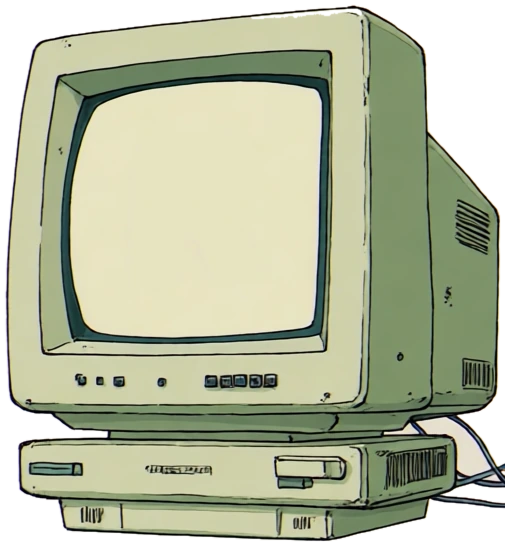
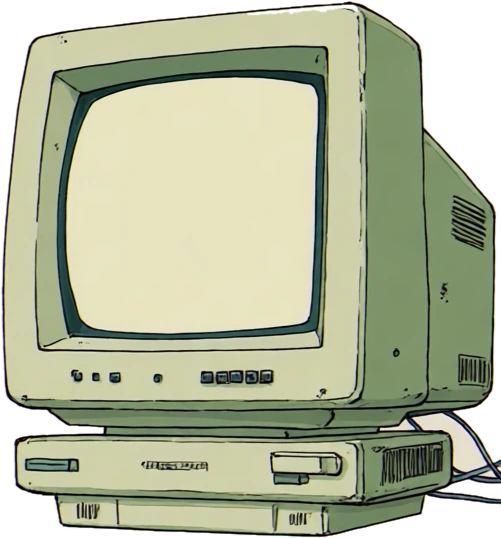
Letter TV: full-height TVs touching edge to edge on black (#72)
All six TVs now take the full screen height and sit flush side by side
(assets trimmed to their edges). The middle pair is centred as a whole
and only shrinks below full height when the screen is too narrow to show
both whole. NEXT sits on the seam between them, below the screens.
Background is black for now.

Claude-Session: https://claude.ai/code/session_013eeETGcTRTxRz5BoWtHoUC

diff --git a/frontend/src/components/letterTv/screens.js b/frontend/src/components/letterTv/screens.js
@@ -8,46 +8,39 @@ import teal from './assets/tvs/tv-teal.webp';
 // The six TV cut-outs. `screen` is where the cream screen sits inside each image, in percent
 // of that image. Measured from the art; tune these numbers if a letter ever looks off-centre.
 export const TVS = {
-  purple: {src: purple, width: 578, height: 617, screen: {left: 32.35, top: 32.9, width: 45.33, height: 41.98}},
-  beige: {src: beige, width: 505, height: 546, screen: {left: 14.06, top: 15.02, width: 49.31, height: 46.52}},
-  blue: {src: blue, width: 510, height: 541, screen: {left: 26.67, top: 36.41, width: 49.02, height: 43.44}},
-  yellow: {src: yellow, width: 565, height: 577, screen: {left: 20.0, top: 16.46, width: 47.61, height: 40.21}},
-  orange: {src: orange, width: 557, height: 580, screen: {left: 35.37, top: 28.45, width: 49.91, height: 44.14}},
-  teal: {src: teal, width: 524, height: 517, screen: {left: 13.55, top: 14.89, width: 51.53, height: 47.58}},
+  purple: {src: purple, width: 573, height: 607, screen: {left: 32.63, top: 32.62, width: 45.73, height: 42.67}},
+  beige: {src: beige, width: 501, height: 538, screen: {left: 13.37, top: 14.5, width: 49.7, height: 47.21}},
+  blue: {src: blue, width: 502, height: 533, screen: {left: 26.3, top: 36.21, width: 49.8, height: 44.09}},
+  yellow: {src: yellow, width: 561, height: 569, screen: {left: 19.43, top: 15.99, width: 47.95, height: 40.78}},
+  orange: {src: orange, width: 552, height: 572, screen: {left: 35.69, top: 28.15, width: 50.36, height: 44.76}},
+  teal: {src: teal, width: 520, height: 509, screen: {left: 12.89, top: 14.34, width: 51.93, height: 48.33}},
 };
 // Must match TV_IDS in backend/letter_tv.py.
 export const TV_IDS = ['purple', 'beige', 'blue', 'yellow', 'orange', 'teal'];
 
 // Reference composition: 1080 units tall, x measured from the centre line of the screen.
-// One unit = available height / 1080, unless the screen is too narrow to show both central
-// TVs whole (old tablets), then it shrinks just enough. Outer TVs simply run off the edges.
+// Every TV is the full height and they touch edge to edge. One unit = available height / 1080,
+// unless the screen is too narrow for the two central TVs, then it shrinks just enough to show
+// them whole. Outer TVs simply run off the edges.
 export const REF_HEIGHT = 1080;
-export const MIN_VISIBLE_WIDTH = 1440;
-
-const GAP = 36;            // between the two central TVs
-const OUTER_GAP = 30;      // between neighbouring TVs further out
-const SLOTS = {
-  centre: {height: 640, top: 110},
-  near: {height: 540, top: 300},
-  far: {height: 600, top: 80},
-};
 
 // Arrangement order: [far-left, near-left, centre-left, centre-right, near-right, far-right].
 // Returns every TV's box in reference units (x = left edge relative to the centre line).
 export function layoutSlots(arrangement) {
-  const box = (id, slot) => {
-    const tv = TVS[id], {height, top} = SLOTS[slot];
-    return {id, role: slot, top, height, width: Math.round(height * tv.width / tv.height)};
-  };
-  const [fl, nl, cl, cr, nr, fr] = arrangement;
-  const cL = box(cl, 'centre'), cR = box(cr, 'centre');
-  cL.x = -GAP / 2 - cL.width; cR.x = GAP / 2;
-  const nL = box(nl, 'near'), nR = box(nr, 'near');
-  nL.x = cL.x - OUTER_GAP - nL.width; nR.x = cR.x + cR.width + OUTER_GAP;
-  const fL = box(fl, 'far'), fR = box(fr, 'far');
-  fL.x = nL.x - OUTER_GAP - fL.width; fR.x = nR.x + nR.width + OUTER_GAP;
-  return [fL, nL, cL, cR, nR, fR];
+  const boxes = arrangement.map((id, i) => {
+    const tv = TVS[id];
+    return {id, role: i === 2 || i === 3 ? 'centre' : 'outer', top: 0, height: REF_HEIGHT, width: Math.round(REF_HEIGHT * tv.width / tv.height)};
+  });
+  boxes[2].x = -Math.round((boxes[2].width + boxes[3].width) / 2); boxes[3].x = boxes[2].x + boxes[2].width;
+  for (let i = 1; i >= 0; i--) boxes[i].x = boxes[i + 1].x - boxes[i].width;
+  for (let i = 4; i < 6; i++) boxes[i].x = boxes[i - 1].x + boxes[i - 1].width;
+  return boxes;
 }
+
+// Half-width (units) that must stay visible so both central TVs are whole.
+export const centreHalfWidth = slots => Math.max(-slots[2].x, slots[3].x + slots[3].width);
+// Where the two central TVs meet (units from the centre line); NEXT sits on this seam.
+export const centreSeam = slots => slots[3].x;
 
 // Both letters share one size, set by the shorter central screen (reference units).
 export function letterSize(slots, scale = LETTER_SCALE) {
@@ -58,5 +51,5 @@ export function letterSize(slots, scale = LETTER_SCALE) {
 // Letter height as a share of its screen's height.
 export const LETTER_SCALE = 0.7;
 
-// NEXT button, centred between the central TVs below their screens (reference units).
-export const BUTTON = {top: 820, width: 280, height: 100};
+// NEXT button, on the seam between the central TVs, below every screen (reference units).
+export const BUTTON = {bottom: 24, width: 280, height: 100};

diff --git a/frontend/src/components/letterTv/letterTv.css b/frontend/src/components/letterTv/letterTv.css
@@ -1,12 +1,12 @@
 @import url('https://fonts.googleapis.com/css2?family=Archivo+Black&family=DM+Sans:wght@500;700;800&display=swap');
 
-/* Full-screen, landscape. Six TVs on a 1080-unit-tall strip. One unit (--u) follows the
-   available height; it only shrinks further if the two central TVs would not fit the width.
-   The strip is centred, so the middle pair always stays whole and the outer TVs crop at the edges. */
-.ltv-app{position:fixed;inset:0;overflow:hidden;background:#e6e0ce;color:#141014;font-family:'DM Sans',system-ui,sans-serif;
+/* Full-screen, landscape. Six full-height TVs touching edge to edge on a 1080-unit strip. One unit
+   (--u) follows the available height; it only shrinks if the two central TVs would not fit the width
+   (--centre-w, set per arrangement). The strip is centred: the middle pair stays whole, the outer TVs crop. */
+.ltv-app{position:fixed;inset:0;overflow:hidden;background:#000;color:#141014;font-family:'DM Sans',system-ui,sans-serif;
   --safe-h:calc(100vh - env(safe-area-inset-top) - env(safe-area-inset-bottom));
   --safe-w:calc(100vw - env(safe-area-inset-left) - env(safe-area-inset-right));
-  --u:min(calc(var(--safe-h) / 1080), calc(var(--safe-w) / 1440));
+  --u:min(calc(var(--safe-h) / 1080), calc(var(--safe-w) / var(--centre-w, 2200)));
   user-select:none;-webkit-user-select:none;-webkit-tap-highlight-color:transparent;overscroll-behavior:none;touch-action:manipulation}
 @supports (height:100dvh){.ltv-app{--safe-h:calc(100dvh - env(safe-area-inset-top) - env(safe-area-inset-bottom))}}
 .ltv-app *{box-sizing:border-box}
@@ -22,12 +22,12 @@
 .ltv-sr{position:absolute;width:1px;height:1px;overflow:hidden;clip:rect(0 0 0 0)}
 
 /* One button: coral, thick black outline, cartoon shadow. Centred below the middle pair. */
-.ltv-next{position:absolute;left:50%;top:calc(var(--u) * var(--y));transform:translateX(-50%);width:calc(var(--u) * var(--w));min-width:120px;height:calc(var(--u) * var(--h));min-height:52px;padding:0;
+.ltv-next{position:absolute;left:calc(50% + var(--u) * var(--x, 0));bottom:calc(var(--u) * var(--b));transform:translateX(-50%);width:calc(var(--u) * var(--w));min-width:120px;height:calc(var(--u) * var(--h));min-height:52px;padding:0;
   border:max(3px,calc(var(--u) * 6)) solid #111;border-radius:max(14px,calc(var(--u) * 26));background:#F4A582;color:#111;font:400 max(22px,calc(var(--u) * 54))/1 'Archivo Black','Arial Black',sans-serif;letter-spacing:.06em;
   box-shadow:0 max(5px,calc(var(--u) * 11)) 0 #111;cursor:pointer;touch-action:manipulation}
 .ltv-next:active:not(:disabled){transform:translateX(-50%) translateY(max(4px,calc(var(--u) * 9)));box-shadow:0 max(1px,calc(var(--u) * 2)) 0 #111}
 .ltv-next:disabled{filter:saturate(.7)}
-.ltv-next:focus-visible{outline:3px solid #111;outline-offset:4px}
+.ltv-next:focus-visible{outline:3px solid #fff;outline-offset:4px}
 
 /* Small corner controls stay out of the art. */
 .ltv-corner{position:absolute;top:calc(env(safe-area-inset-top) + 10px);z-index:3;display:inline-flex;align-items:center;justify-content:center;gap:6px;min-height:44px;min-width:44px;

diff --git a/frontend/src/components/letterTv/arrangement.test.js b/frontend/src/components/letterTv/arrangement.test.js
@@ -1,5 +1,5 @@
 import {localArrangement, seededArrangement, shuffleArrangement, validArrangement} from './arrangement';
-import {TV_IDS, TVS, layoutSlots, letterSize, BUTTON} from './screens';
+import {BUTTON, REF_HEIGHT, TV_IDS, TVS, centreHalfWidth, layoutSlots, letterSize} from './screens';
 
 test('a shuffle uses each of the six TVs exactly once', () => {
   for (let i = 0; i < 200; i++) expect(validArrangement(shuffleArrangement())).toBe(true);
@@ -27,22 +27,23 @@ test('local arrangement survives a refresh of the same tab', () => {
   expect(localArrangement()).not.toEqual(first);
 });
 
-test('central pair hugs the centre line and never overlaps the button or each other', () => {
+test('all six TVs are full height and touch edge to edge, the middle pair on the centre line', () => {
   for (let i = 0; i < 200; i++) {
     const slots = layoutSlots(shuffleArrangement());
-    const [fl, nl, cl, cr, nr, fr] = slots;
-    expect(cl.role).toBe('centre'); expect(cr.role).toBe('centre');
-    expect(cl.x + cl.width).toBeLessThan(0); expect(cr.x).toBeGreaterThan(0);
-    // Both central TVs fit the narrowest width we guarantee (1440 units).
-    expect(Math.max(-cl.x, cr.x + cr.width)).toBeLessThanOrEqual(720);
-    expect(cl.top + cl.height).toBeLessThan(BUTTON.top);
-    expect(BUTTON.top + BUTTON.height).toBeLessThanOrEqual(1080);
-    // Outer TVs run outward without overlapping.
-    expect(nl.x + nl.width).toBeLessThan(cl.x); expect(fl.x + fl.width).toBeLessThan(nl.x);
-    expect(nr.x).toBeGreaterThan(cr.x + cr.width); expect(fr.x).toBeGreaterThan(nr.x + nr.width);
+    expect(slots.map(s => s.role)).toEqual(['outer', 'outer', 'centre', 'centre', 'outer', 'outer']);
+    slots.forEach(s => { expect(s.top).toBe(0); expect(s.height).toBe(REF_HEIGHT); });
+    // The pair is centred as a whole.
+    expect(Math.abs(slots[2].x + (slots[3].x + slots[3].width))).toBeLessThanOrEqual(1);
+    for (let k = 1; k < 6; k++) expect(slots[k].x).toBe(slots[k - 1].x + slots[k - 1].width);
+    expect(Math.abs(centreHalfWidth(slots) - (slots[2].width + slots[3].width) / 2)).toBeLessThanOrEqual(1);
     // Proportions are the art's own.
     slots.forEach(s => expect(Math.abs(s.width / s.height - TVS[s.id].width / TVS[s.id].height)).toBeLessThan(0.01));
-    expect(letterSize(slots)).toBeGreaterThan(150);
+    // NEXT sits below every central screen.
+    slots.slice(2, 4).forEach(s => {
+      const screenBottom = (TVS[s.id].screen.top + TVS[s.id].screen.height) / 100 * REF_HEIGHT;
+      expect(REF_HEIGHT - BUTTON.bottom - BUTTON.height).toBeGreaterThan(screenBottom);
+    });
+    expect(letterSize(slots)).toBeGreaterThan(250);
   }
   expect(TV_IDS).toHaveLength(6);
 });

diff --git a/frontend/src/components/letterTv/LetterTV.jsx b/frontend/src/components/letterTv/LetterTV.jsx
@@ -5,13 +5,13 @@ import {BACKEND_URL} from '@/lib/api';
 import RoomQR from '../plotTwist/RoomQR';
 import RoomCodeInput from '../plotTwist/RoomCodeInput';
 import {validRoomCode} from '../plotTwist/roomCode';
-import {BUTTON, TVS, layoutSlots, letterSize} from './screens';
+import {BUTTON, TVS, centreHalfWidth, centreSeam, layoutSlots, letterSize} from './screens';
 import {localArrangement, rememberArrangement, seededArrangement, validArrangement} from './arrangement';
 import {nextPair} from './letters';
 import {playClick} from './click';
 import './letterTv.css';
 
-// Six TVs in a row; the two in the middle show one letter each. Everyone shouts answers;
+// Six full-height TVs side by side; the two in the middle show one letter each. Everyone shouts answers;
 // the game never judges. Local play works instantly. An optional room lets the host's NEXT
 // drive every phone. Which TV sits where is picked once per session/room and then locked.
 const key = code => `letter-tv-session:${code}`;
@@ -143,7 +143,8 @@ export default function LetterTV({onContinue}) {
   const inviteUrl = code ? `${window.location.origin}/mini-games/letter-tv/room/${code}` : '';
   const ready = !code || room;
 
-  return <main className="ltv-app" data-typography-ignore data-status-bar-color="#e6e0ce">
+  return <main className="ltv-app" data-typography-ignore data-status-bar-color="#000000"
+    style={slots.length ? {'--centre-w': centreHalfWidth(slots) * 2} : undefined}>
     <div className="ltv-stage">
       <div className="ltv-world">
         {slots.map(slot => {
@@ -157,7 +158,7 @@ export default function LetterTV({onContinue}) {
           </div>;
         })}
         {isHost && ready && slots.length > 0 && <button type="button" className="ltv-next" disabled={busy}
-          style={{'--y': BUTTON.top, '--w': BUTTON.width, '--h': BUTTON.height}} onClick={next}>NEXT</button>}
+          style={{'--x': centreSeam(slots), '--b': BUTTON.bottom, '--w': BUTTON.width, '--h': BUTTON.height}} onClick={next}>NEXT</button>}
       </div>
       <span className="ltv-sr" aria-live="polite">{pair ? `Letters ${pair[0]} and ${pair[1]}` : ''}</span>
     </div>

diff --git a/frontend/src/App.js b/frontend/src/App.js
@@ -36,7 +36,7 @@ function StatusBarTheme() {
             const path = window.location.pathname;
             const palette = path.includes('plot-twist') ? '#352039'
                 : path.includes('emoji-rooftop') ? '#120c28'
-                : path.includes('letter-tv') ? '#e6e0ce'
+                : path.includes('letter-tv') ? '#000000'
                 : path.includes('baccarat') ? '#000000'
                 : path.includes('shoug') ? '#6E1F35'
                 : path.includes('admin') ? '#FBF4E4'
